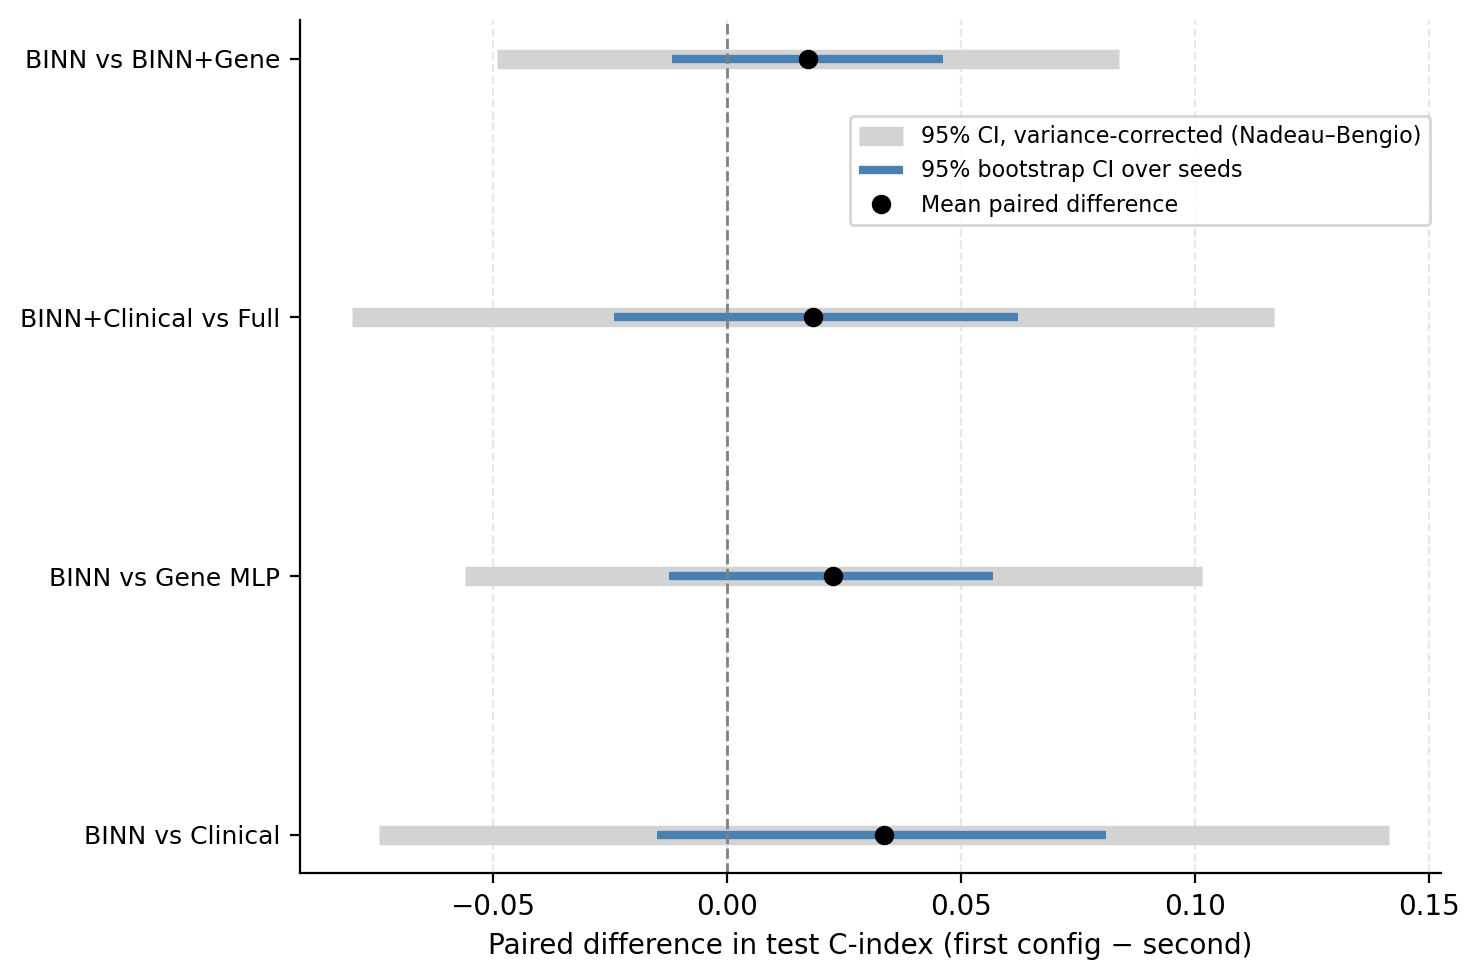
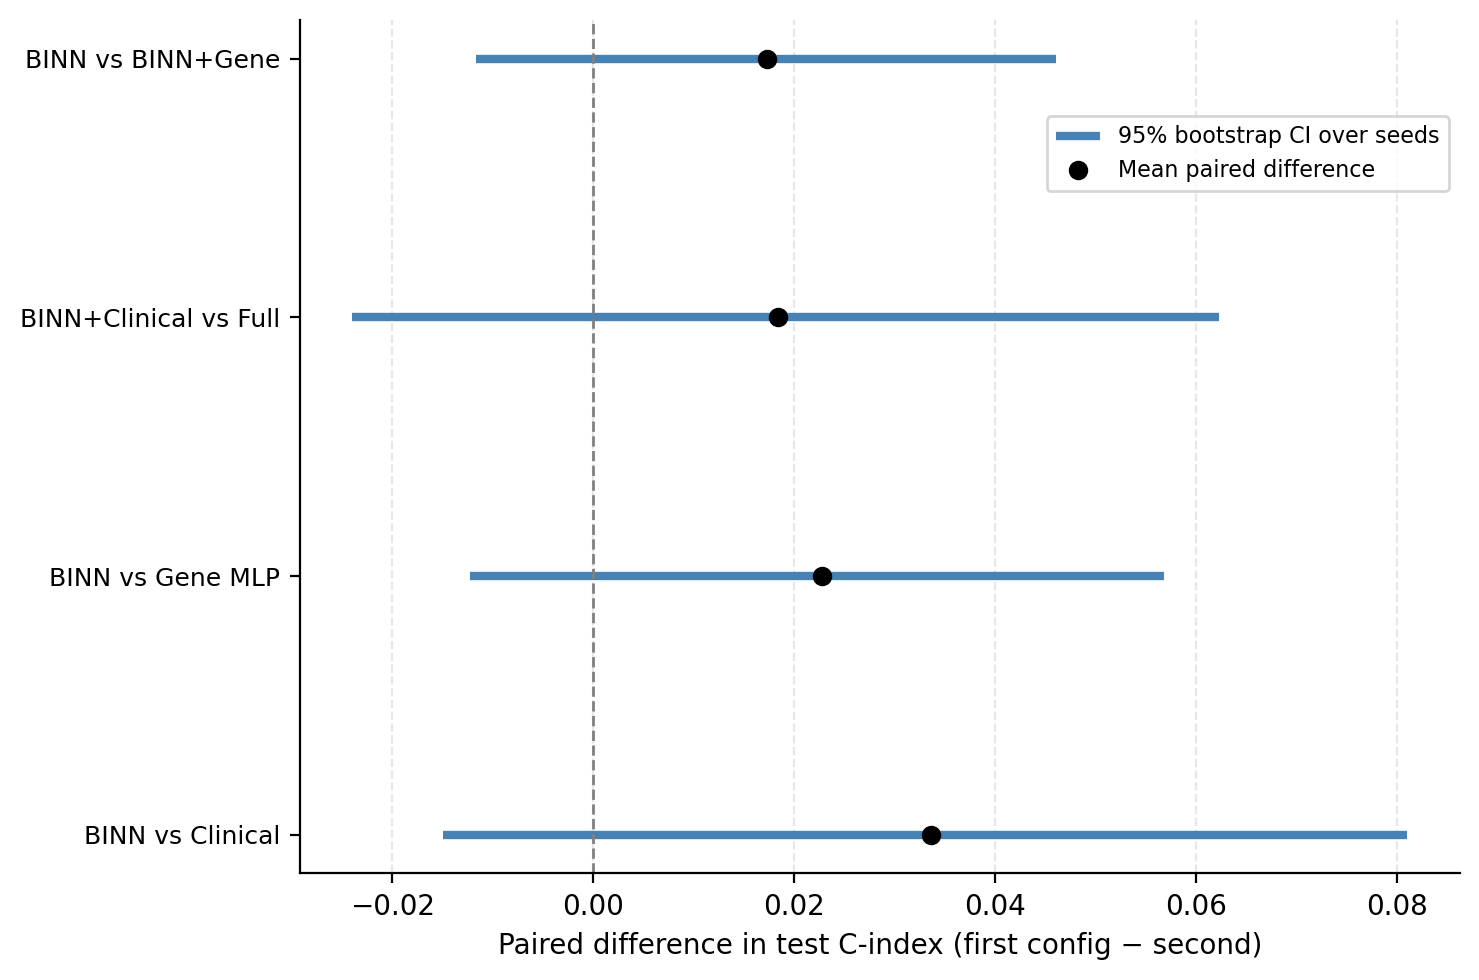
skip nadeau-bengio

diff --git a/experiments/analyze_results.py b/experiments/analyze_results.py
@@ -427,8 +427,8 @@ def make_contrast_forest(contrast_df, out_dir):
     y = np.arange(len(df))
 
     fig, ax = plt.subplots(figsize=(7.5, 0.9 * len(df) + 1.4))
-    ax.hlines(y, df["ci_nb_lo"], df["ci_nb_hi"], color="lightgray", linewidth=7,
-              label="95% CI, variance-corrected (Nadeau–Bengio)")
+    # ax.hlines(y, df["ci_nb_lo"], df["ci_nb_hi"], color="lightgray", linewidth=7,
+    #           label="95% CI, variance-corrected (Nadeau–Bengio)")
     ax.hlines(y, df["ci_boot_lo"], df["ci_boot_hi"], color="steelblue", linewidth=3,
               label="95% bootstrap CI over seeds")
     ax.plot(df["mean_diff"], y, "ko", zorder=3, label="Mean paired difference")
